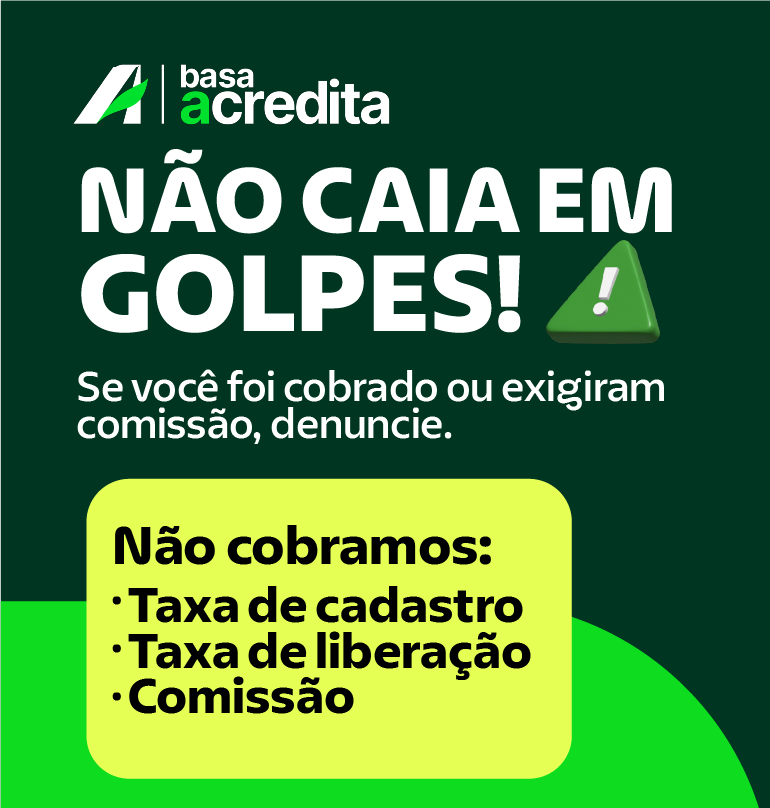
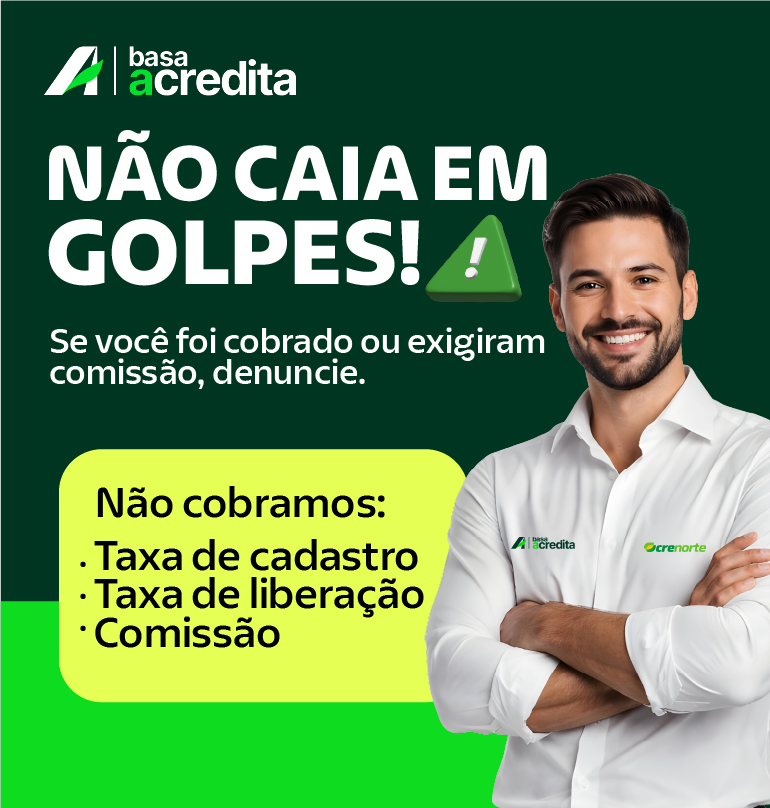
feat: imagens alteradas

diff --git a/components/Banner.tsx b/components/Banner.tsx
@@ -14,7 +14,7 @@ const slides = [
   },
   {
     image: "/prancheta-1.png",
-    imageMobile: "/prancheta-8.png",
+    imageMobile: "/prancheta-5.png",
     title: "MELHOR MICROCRÉDITO DA AMAZÔNIA",
   },
   {
